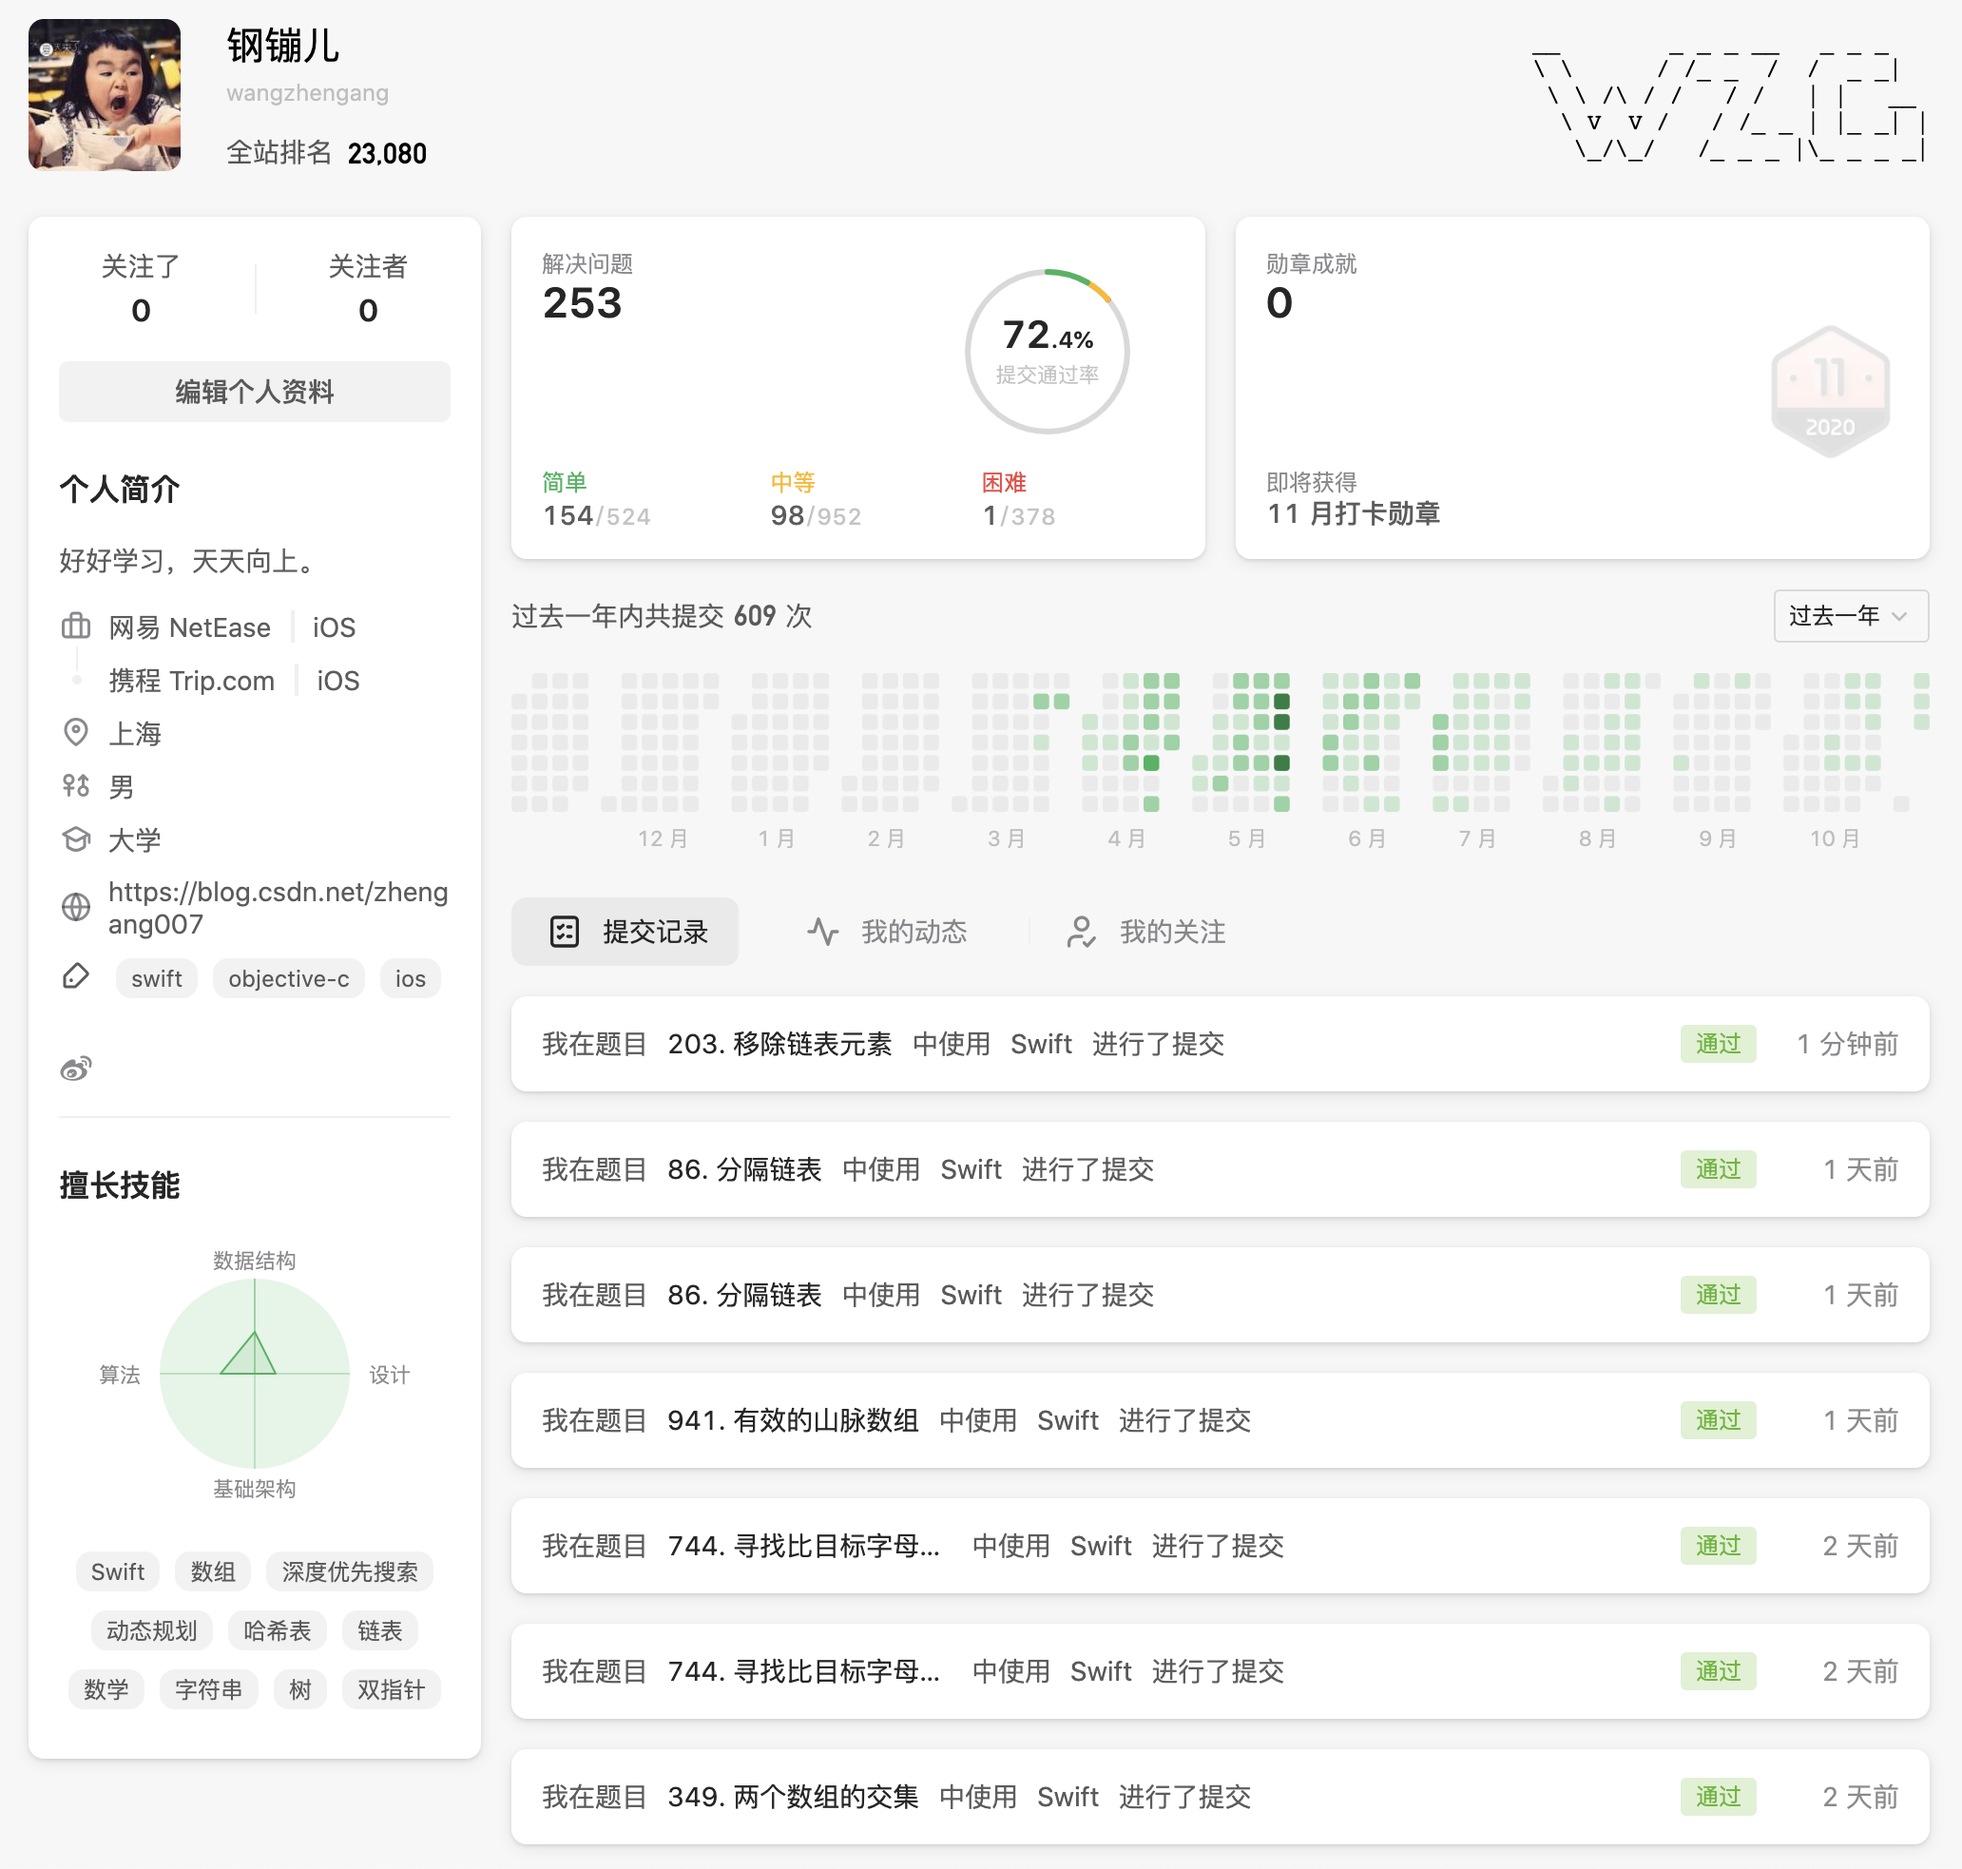
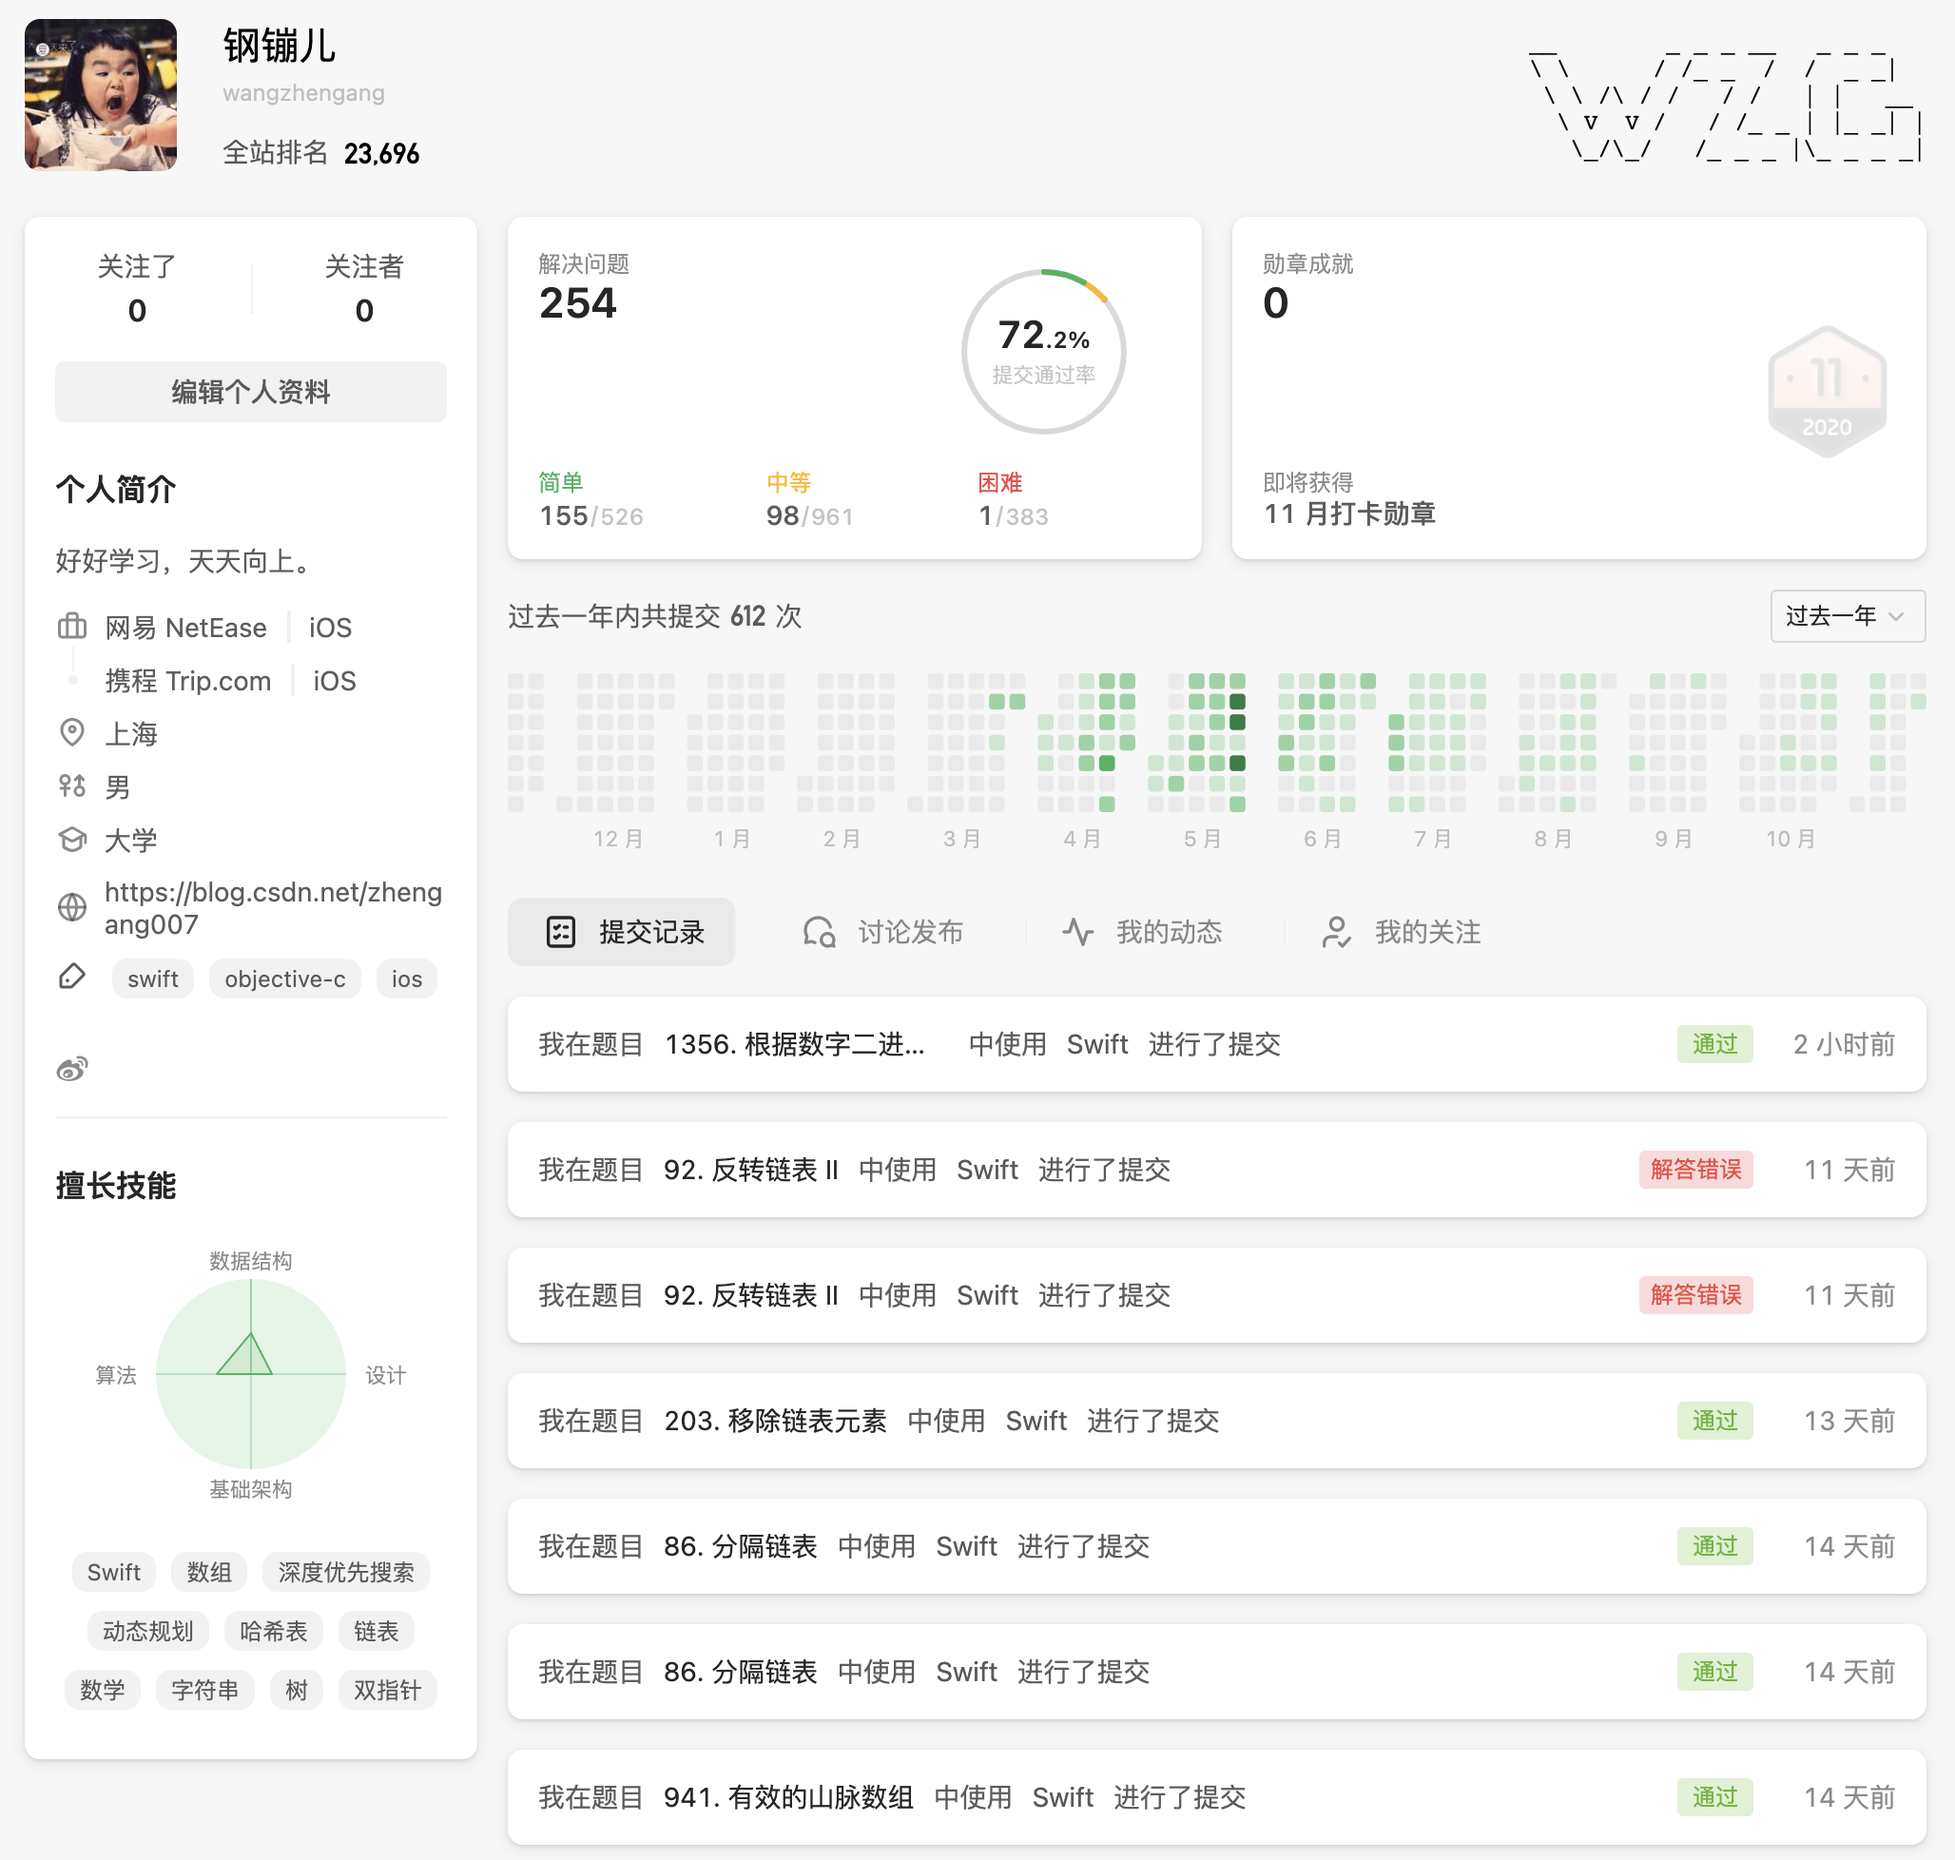
【累积254题】：新增1题ease

diff --git a/LeetCodeTest/LeetCodeTest/main.swift b/LeetCodeTest/LeetCodeTest/main.swift
@@ -56,7 +56,7 @@ class Solution {
             tail = newNodel
         }
     }
-    
+
     ///删除第N个链表节点
     func deleteNode(_ node: ListNode?) {
         if let n = node?.next {
@@ -4802,7 +4802,66 @@ class Solution {
         }
         return new
     }
+ 
+    ///92. 反转链表 II
+    func reverseBetween(_ head: ListNode?, _ m: Int, _ n: Int) -> ListNode? {
+        guard head != nil || m != n  else {
+            return head
+        }
+        var m = m , n = n, head = head
+        var cur = head, prev = head
+        while (m > 1) {
+            prev = cur
+            cur = cur?.next
+            m -= 1
+            n -= 1
+        }
+
+        let con = prev, tail = cur
+
+        var third: ListNode?
+        while (n > 0) {
+            third = cur?.next
+            cur?.next = prev
+            prev = cur
+            cur = third
+            n -= 1
+        }
+
+        if (con != nil) {
+            con?.next = prev
+        } else {
+            head = prev
+        }
+
+        tail?.next = cur
+        return head
+    }
     
+    ///1356. 根据数字二进制下 1 的数目排序
+    func sortByBits(_ arr: [Int]) -> [Int] {
+        var countArray = [(Int, Int)]()
+        for n in arr  {
+            var sum = 0
+            for c in String(n, radix: 2 ) {
+                if c == "1" {
+                    sum += 1
+                }
+            }
+            countArray.append((n, sum))
+        }
+        countArray.sort { (a, b) -> Bool in
+            if a.1 == b.1 {
+                return a.0 < b.0
+            }
+            return a.1 < b.1
+        }
+        var result = [Int]()
+        for n in countArray {
+            result.append(n.0)
+        }
+        return result
+    }
     
 }
 
@@ -4811,13 +4870,11 @@ class Solution {
 let s = Solution()
 
 let s1 = Solution()
-s1.addNodel(1)
-s1.addNodel(2)
-s1.addNodel(6)
 s1.addNodel(3)
-s1.addNodel(4)
 s1.addNodel(5)
-s1.addNodel(6)
+//s1.addNodel(3)
+//s1.addNodel(4)
+//s1.addNodel(5)
 
 let s2 = Solution()
 //s2.addNodel(1)
@@ -4839,7 +4896,7 @@ var nums1 = [Int]()
 //}
  
 let c = Date().milliStamp
-let r = s.removeElements( s1.head, 6 )
+let r = s.sortByBits( [1024,512,256,128,64,32,16,8,4,2,1] )
 print(r)
 let m = Date().milliStamp - c
 print(m)
